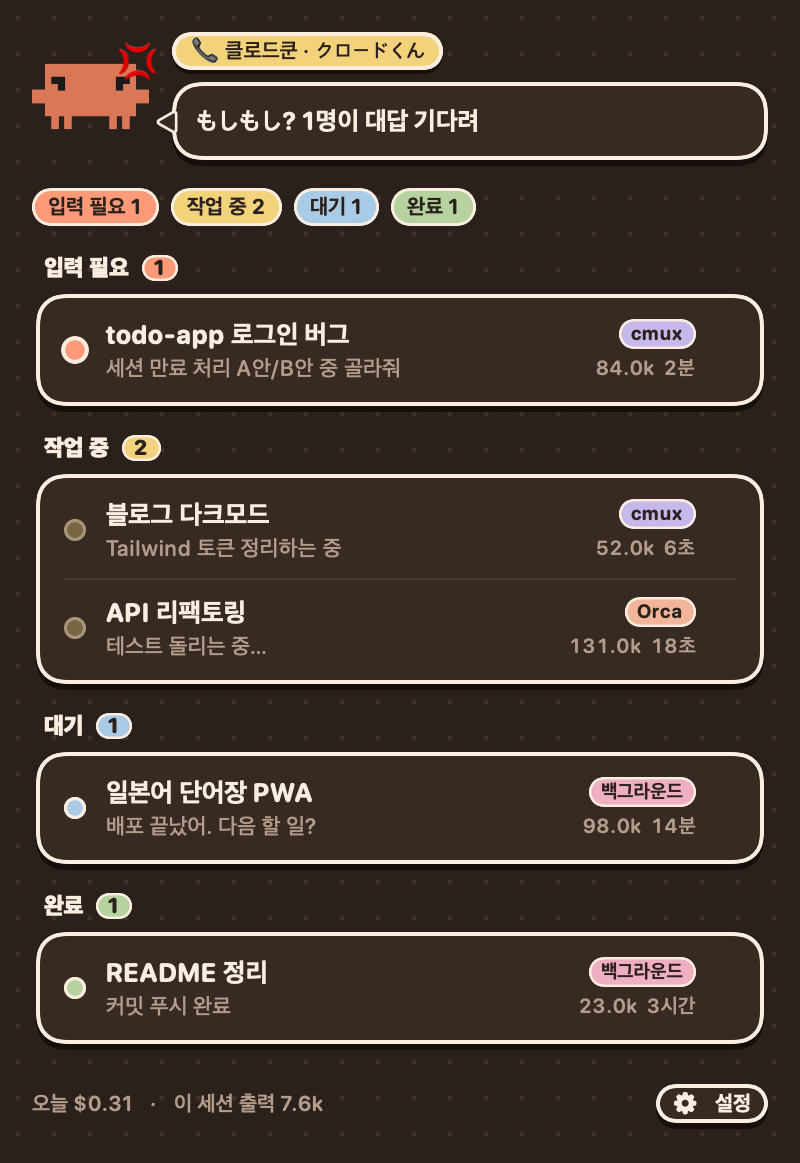
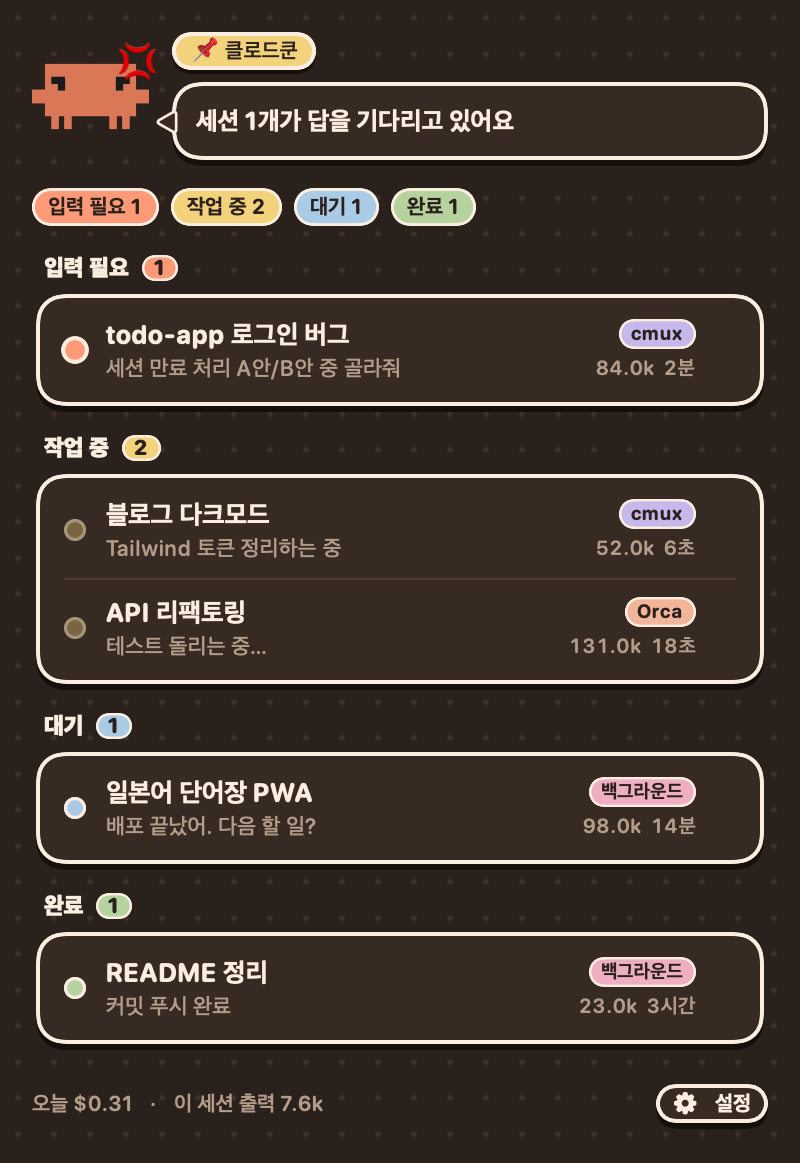
전화 컨셉 제거, 상단 칩 언어별 표시, 끝난 세션 지우기

Changed region(s): [[0.25, 0.0929, 0.6562, 0.1238], [0.375, 0.0, 0.5625, 0.0619], [0.2188, 0.031, 0.2812, 0.0619]]

diff --git a/Sources/ClaudeKun/main.swift b/Sources/ClaudeKun/main.swift
@@ -504,7 +504,7 @@ struct AgentRow: View {
             hover = h
             if canJump { h ? NSCursor.pointingHand.push() : NSCursor.pop() }
         }
-        .help(canJump ? L("📞 \(agent.host.label)에서 열기 · \(agent.cwd)", "📞 \(agent.host.label)で開く · \(agent.cwd)") : L("어느 터미널인지 못 찾았어", "どのターミナルか見つからない"))
+        .help(canJump ? L("\(agent.host.label)에서 열기 · \(agent.cwd)", "\(agent.host.label)で開く · \(agent.cwd)") : L("어느 터미널인지 못 찾았어", "どのターミナルか見つからない"))
         .animation(.easeOut(duration: 0.12), value: hover)
     }
 
@@ -571,9 +571,9 @@ struct MenuPanel: View {
 
     var line: String {
         let n = agents.count(.needsInput), w = agents.count(.working)
-        if n > 0 { return L("もしもし? \(n)명이 대답 기다려", "もしもし? \(n)人が返事待ってるよ") }
-        if w > 0 { return L("\(w)명 통화 중. 방해 금지", "\(w)人が通話中。じゃましないでね") }
-        if agents.agents.isEmpty { return L("아무도 안 받네… 뚜- 뚜-", "だれも出ないね… ツー ツー") }
+        if n > 0 { return L("세션 \(n)개가 답을 기다리고 있어요", "セッション\(n)個が返事を待ってるよ") }
+        if w > 0 { return L("세션 \(w)개 작업 중이에요", "セッション\(w)個が作業中だよ") }
+        if agents.agents.isEmpty { return L("할 일이 없어서 심심해… 일 시켜줘!", "やることなくてひま… 仕事ちょうだい!") }
         return L("다들 대기 중. 조용~", "みんな待機中。しーん…")
     }
 
@@ -583,7 +583,7 @@ struct MenuPanel: View {
             HStack(alignment: .center, spacing: 12) {
                 Mascot(size: 58, mood: agentMood(agents))
                 VStack(alignment: .leading, spacing: 6) {
-                    Chip(text: "📞 클로드쿤 · クロードくん")
+                    Chip(text: L("📌 클로드쿤", "📌 クロードくん"))
                     Bubble {
                         Text(line).font(round(12.5, .bold)).foregroundStyle(Pal.ink)
                             .fixedSize(horizontal: false, vertical: true)
@@ -671,7 +671,7 @@ struct CmuxAuthCard: View {
     var body: some View {
         VStack(alignment: .leading, spacing: 8) {
             HStack {
-                Text(L("📞 cmux가 전화를 안 받아", "📞 cmuxが電話に出ない")).font(round(13, .heavy)).foregroundStyle(Pal.onPastel)
+                Text(L("cmux 연결이 막혀 있어요", "cmuxにつながらないよ")).font(round(13, .heavy)).foregroundStyle(Pal.onPastel)
                 Spacer()
                 Button { agents.cmuxNeedsAuth = false } label: { Image(systemName: "xmark").font(.system(size: 10, weight: .heavy)) }
                     .buttonStyle(.plain).foregroundStyle(Pal.onPastel)

diff --git a/hook/tokenwatch-hook.js b/hook/tokenwatch-hook.js
@@ -21,8 +21,8 @@ function msg(reason) {
   let lang = "ko";
   try { lang = fs.readFileSync(path.join(ROOT, "lang"), "utf8").trim(); } catch {}
   return lang === "ja"
-    ? "📞 クロードくん: もしもし?このまま送る?\n" + reason + "\n(そのままもう一度送れば通るよ)"
-    : "📞 클로드쿤: もしもし? 이거 그냥 보내게?\n" + reason + "\n(그대로 다시 보내면 통과돼)";
+    ? "🧡 クロードくん: ちょっと待って、このまま送る?\n" + reason + "\n(そのままもう一度送れば通るよ)"
+    : "🧡 클로드쿤: 잠깐! 이거 그냥 보내게?\n" + reason + "\n(그대로 다시 보내면 통과돼)";
 }
 
 const sleep = (ms) => Atomics.wait(new Int32Array(new SharedArrayBuffer(4)), 0, 0, ms);

diff --git a/README.md b/README.md
@@ -2,9 +2,9 @@
 
 <img src="docs/faces.png" width="560" alt="클로드쿤 표정들">
 
-# 📞 클로드쿤 · クロードくん
+# 클로드쿤 · クロードくん
 
-**もしもし? 지금 돌고 있는 Claude Code 세션, 메뉴바에서 한눈에.**
+**지금 돌고 있는 Claude Code 세션, 메뉴바에서 한눈에.**
 
 macOS 메뉴바에 사는 작은 Claude Code 세션 비서.<br>
 어느 세션이 대답을 기다리는지 보고, 클릭 한 번으로 그 터미널 탭으로 넘어가요.
